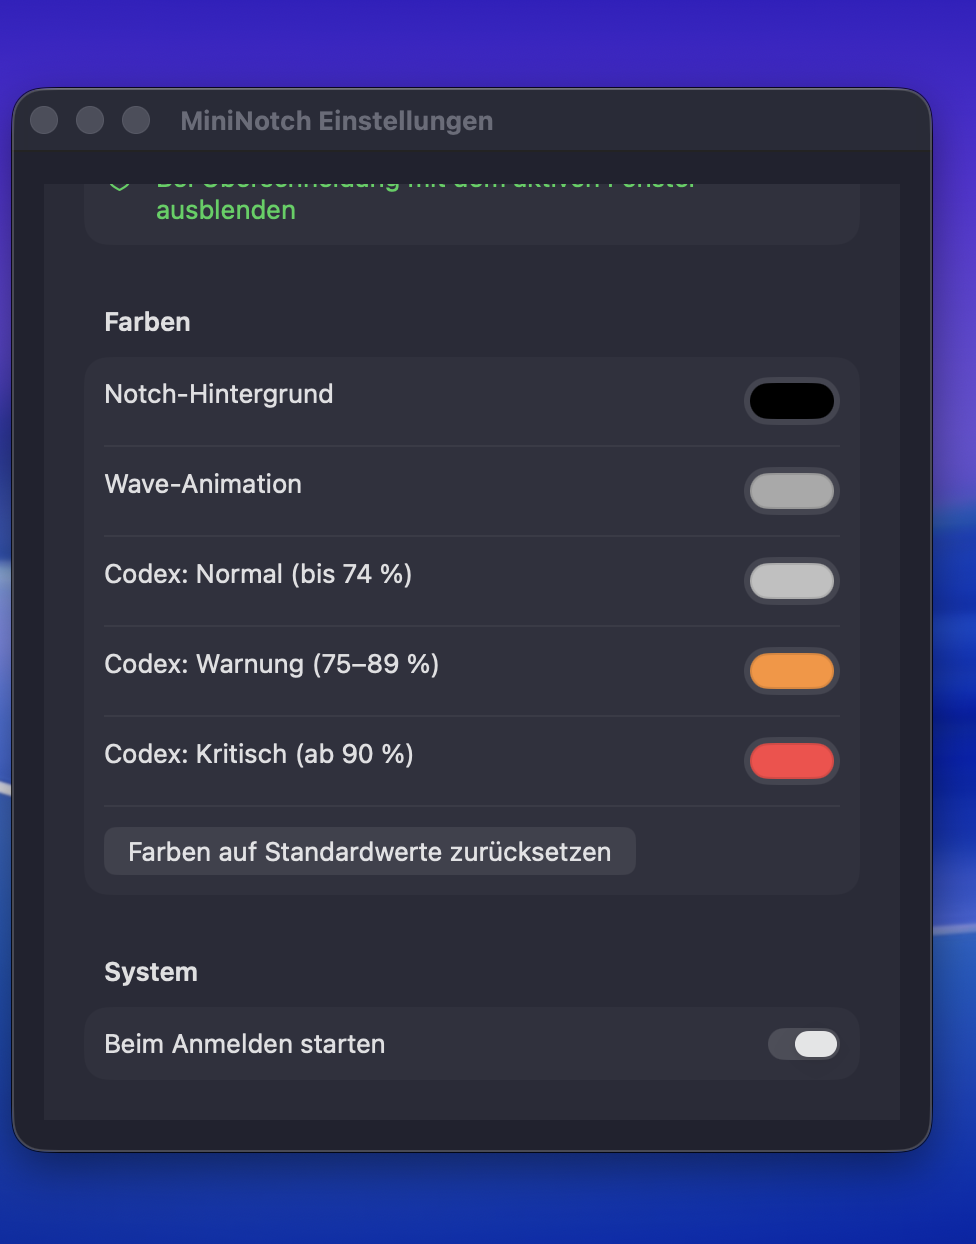
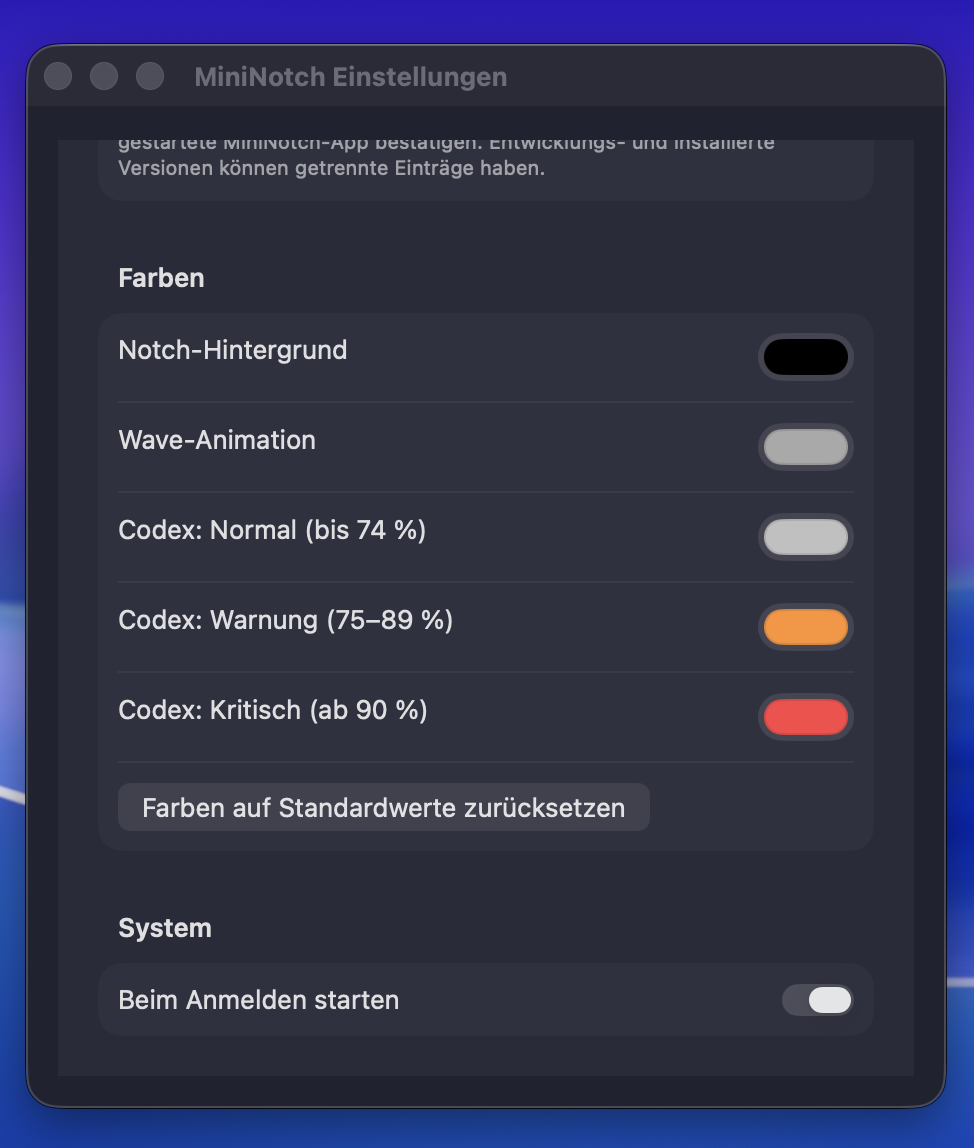
Funktion zum Hervorheben von Titeln entfernt

diff --git a/Sources/MiniNotch/AppModel.swift b/Sources/MiniNotch/AppModel.swift
@@ -7,7 +7,6 @@ import SwiftUI
 @MainActor
 enum NotchPresentation: Equatable {
     case collapsed
-    case trackPeek
     case expanded
 }
 
@@ -45,7 +44,6 @@ struct DisplayOption: Identifiable, Hashable {
 final class AppModel: ObservableObject {
     @Published var media = MediaState.empty
     @Published var isHovered = false
-    @Published var isPeeking = false
     @Published var isCoveredByFrontmostWindow = false
     @Published var hasAccessibilityPermission = false
     @Published var physicalNotchWidth: CGFloat = 190
@@ -103,9 +101,6 @@ final class AppModel: ObservableObject {
                 UserDefaults.standard.removeObject(forKey: Self.notchContentKey)
             }
 
-            if notchContent == .codexUsage {
-                isPeeking = false
-            }
         }
     }
 
@@ -120,18 +115,8 @@ final class AppModel: ObservableObject {
         }
     }
 
-    @Published var showTrackChangePeek: Bool {
-        didSet {
-            UserDefaults.standard.set(showTrackChangePeek, forKey: "showTrackChangePeek")
-            if !showTrackChangePeek {
-                isPeeking = false
-            }
-        }
-    }
-
     @Published private(set) var launchAtLogin: Bool
 
-    private var peekTask: Task<Void, Never>?
     private var keepsEmptyMediaViewVisible = false
 
     private static let notchBackgroundColorKey = "notchBackgroundColor"
@@ -164,12 +149,6 @@ final class AppModel: ObservableObject {
         selectedDisplayID = (UserDefaults.standard.object(forKey: Self.selectedDisplayIDKey) as? NSNumber)?.uint32Value
         disabledNotchContents = disabledContents
 
-        if let stored = UserDefaults.standard.object(forKey: "showTrackChangePeek") as? Bool {
-            showTrackChangePeek = stored
-        } else {
-            showTrackChangePeek = true
-        }
-
         notchContent = initialContent
 
         notchBackgroundColor = Self.storedColor(
@@ -197,17 +176,7 @@ final class AppModel: ObservableObject {
     }
 
     var presentation: NotchPresentation {
-        if notchContent == .codexUsage {
-            return isHovered ? .expanded : .collapsed
-        }
-
-        guard notchContent == .media else {
-            return isHovered ? .expanded : .collapsed
-        }
-
-        if isHovered { return .expanded }
-        if isPeeking { return .trackPeek }
-        return .collapsed
+        isHovered ? .expanded : .collapsed
     }
 
     var shouldShowNotch: Bool {
@@ -216,8 +185,6 @@ final class AppModel: ObservableObject {
     }
 
     func updateMedia(_ newMedia: MediaState) {
-        let previous = media
-
         // Ist der Medieninhalt aktiv und seine Ansicht nicht ausdrücklich
         // gewählt, wechseln wir zum nächsten verfügbaren Inhalt.
         if !newMedia.hasMedia && notchContent == .media && !keepsEmptyMediaViewVisible {
@@ -228,17 +195,6 @@ final class AppModel: ObservableObject {
 
         if newMedia.hasMedia {
             keepsEmptyMediaViewVisible = false
-        }
-
-        guard newMedia.hasMedia else {
-            isPeeking = false
-            peekTask?.cancel()
-            return
-        }
-
-        let changed = previous.hasMedia && previous.trackKey != newMedia.trackKey
-        if changed && showTrackChangePeek && notchContent == .media {
-            triggerTrackPeek()
         }
     }
 
@@ -323,17 +279,6 @@ final class AppModel: ObservableObject {
         codexUsageNormalColor = Self.defaultCodexUsageNormalColor
         codexUsageWarningColor = Self.defaultCodexUsageWarningColor
         codexUsageCriticalColor = Self.defaultCodexUsageCriticalColor
-    }
-
-    private func triggerTrackPeek() {
-        peekTask?.cancel()
-        isPeeking = true
-
-        peekTask = Task { @MainActor [weak self] in
-            try? await Task.sleep(nanoseconds: 2_800_000_000)
-            guard !Task.isCancelled else { return }
-            self?.isPeeking = false
-        }
     }
 
     private static func storedColor(forKey key: String, default defaultColor: Color) -> Color {

diff --git a/Sources/MiniNotch/NotchView.swift b/Sources/MiniNotch/NotchView.swift
@@ -32,8 +32,6 @@ struct NotchView: View {
                     } else {
                         noActiveContentCollapsedView
                     }
-                case .trackPeek:
-                    trackPeekView
                 case .expanded:
                     expandedContentView
                 }
@@ -88,35 +86,6 @@ struct NotchView: View {
             }
         }
         .frame(maxWidth: .infinity, maxHeight: .infinity)
-    }
-
-    private var trackPeekView: some View {
-        VStack(spacing: 5) {
-            Color.clear
-                .frame(height: notchTopInset)
-
-            HStack(spacing: 12) {
-                artwork(size: 48)
-
-                VStack(alignment: .leading, spacing: 3) {
-                    Text(model.media.title)
-                        .font(.system(size: 16, weight: .semibold))
-                        .foregroundStyle(.white)
-                        .lineLimit(1)
-
-                    Text(model.media.artist)
-                        .font(.system(size: 12, weight: .medium))
-                        .foregroundStyle(.white.opacity(0.62))
-                        .lineLimit(1)
-                }
-
-                Spacer()
-                EqualizerView(playing: model.media.isPlaying, color: model.waveColor)
-            }
-            .padding(.horizontal, 18)
-
-            Spacer(minLength: 8)
-        }
     }
 
     private var expandedContentView: some View {

diff --git a/Sources/MiniNotch/NotchPanelController.swift b/Sources/MiniNotch/NotchPanelController.swift
@@ -127,9 +127,9 @@ final class NotchPanelController {
     }
 
     private func configureObservers() {
-        Publishers.CombineLatest(model.$isHovered, model.$isPeeking)
+        model.$isHovered
             .receive(on: RunLoop.main)
-            .sink { [weak self] _, _ in
+            .sink { [weak self] _ in
                 self?.updateFrame()
             }
             .store(in: &cancellables)
@@ -428,12 +428,6 @@ final class NotchPanelController {
                 // damit der Breite der physischen MacBook-Notch.
                 width: 185,
                 height: max(model.physicalNotchHeight + 38, 68)
-            )
-
-        case .trackPeek:
-            return NSSize(
-                width: min(max(notch + 470, 620), maximumWidth),
-                height: 82
             )
 
         case .expanded:

diff --git a/Sources/MiniNotch/SettingsView.swift b/Sources/MiniNotch/SettingsView.swift
@@ -58,14 +58,6 @@ struct SettingsView: View {
                 }
             }
 
-            Section("Wiedergabe") {
-                Toggle("Neuen Titel kurz hervorheben", isOn: $model.showTrackChangePeek)
-
-                Text("Beim Titelwechsel wird die Notch für ca. 2,8 Sekunden größer und zeigt den neuen Song deutlicher an.")
-                    .font(.caption)
-                    .foregroundStyle(.secondary)
-            }
-
             Section("Automatisches Ausblenden") {
                 if model.hasAccessibilityPermission {
                     Label(

diff --git a/docs/DEVELOPMENT.md b/docs/DEVELOPMENT.md
@@ -80,13 +80,12 @@ Die App liegt danach unter `build/MiniNotch.app`.
 1. Spotify starten und Musik abspielen.
 2. Prüfen, ob Cover, Titel/Interpret und Player-Anzeige an der Notch erscheinen.
 3. Über die Notch fahren und Play/Pause, Zurück, Weiter, Timeline und Lautstärke testen.
-4. Titel in Spotify wechseln und das optionale Hervorheben prüfen.
-5. Menüleisten-Icon → **Einstellungen …** öffnen.
-6. Medien und Codex-Limits einzeln aktivieren und deaktivieren.
-7. In der erweiterten Codex-Ansicht Fortschrittsbalken, Restzeit und Rücksetzzeitpunkt prüfen.
-8. Farben, Autostart und **Neuen Titel kurz hervorheben** testen.
-9. Unter **Automatisches Ausblenden** den Zugriff anfordern und das Überdecken der Notch durch ein aktives Fenster testen.
-10. Spotify/Browser schließen und prüfen, ob die Medienansicht verschwindet.
+4. Menüleisten-Icon → **Einstellungen …** öffnen.
+5. Medien und Codex-Limits einzeln aktivieren und deaktivieren.
+6. In der erweiterten Codex-Ansicht Fortschrittsbalken, Restzeit und Rücksetzzeitpunkt prüfen.
+7. Farben und Autostart testen.
+8. Unter **Automatisches Ausblenden** den Zugriff anfordern und das Überdecken der Notch durch ein aktives Fenster testen.
+9. Spotify/Browser schließen und prüfen, ob die Medienansicht verschwindet.
 
 ## Lokale Release-App
 

diff --git a/README.md b/README.md
@@ -59,7 +59,7 @@ Codex-Limits direkt an der Notch an.
 - Titel, Interpret und Cover direkt an der Notch
 - Spotify und andere macOS-Now-Playing-Quellen, z. B. YouTube im Browser
 - Aufgeklappter Player beim Hover – mit Play/Pause, Zurück, Weiter, Timeline und Systemlautstärke
-- Animierter Equalizer und optionales Hervorheben bei Titelwechseln
+- Animierter Equalizer
 - Codex-Limits: 5-Stunden- und Wochenverbrauch mit Restzeit und Rücksetzzeitpunkt
 - Medien- und Codex-Ansicht einzeln aktivierbar
 - Farben für Notch, Wave-Animation und Codex-Status anpassbar
